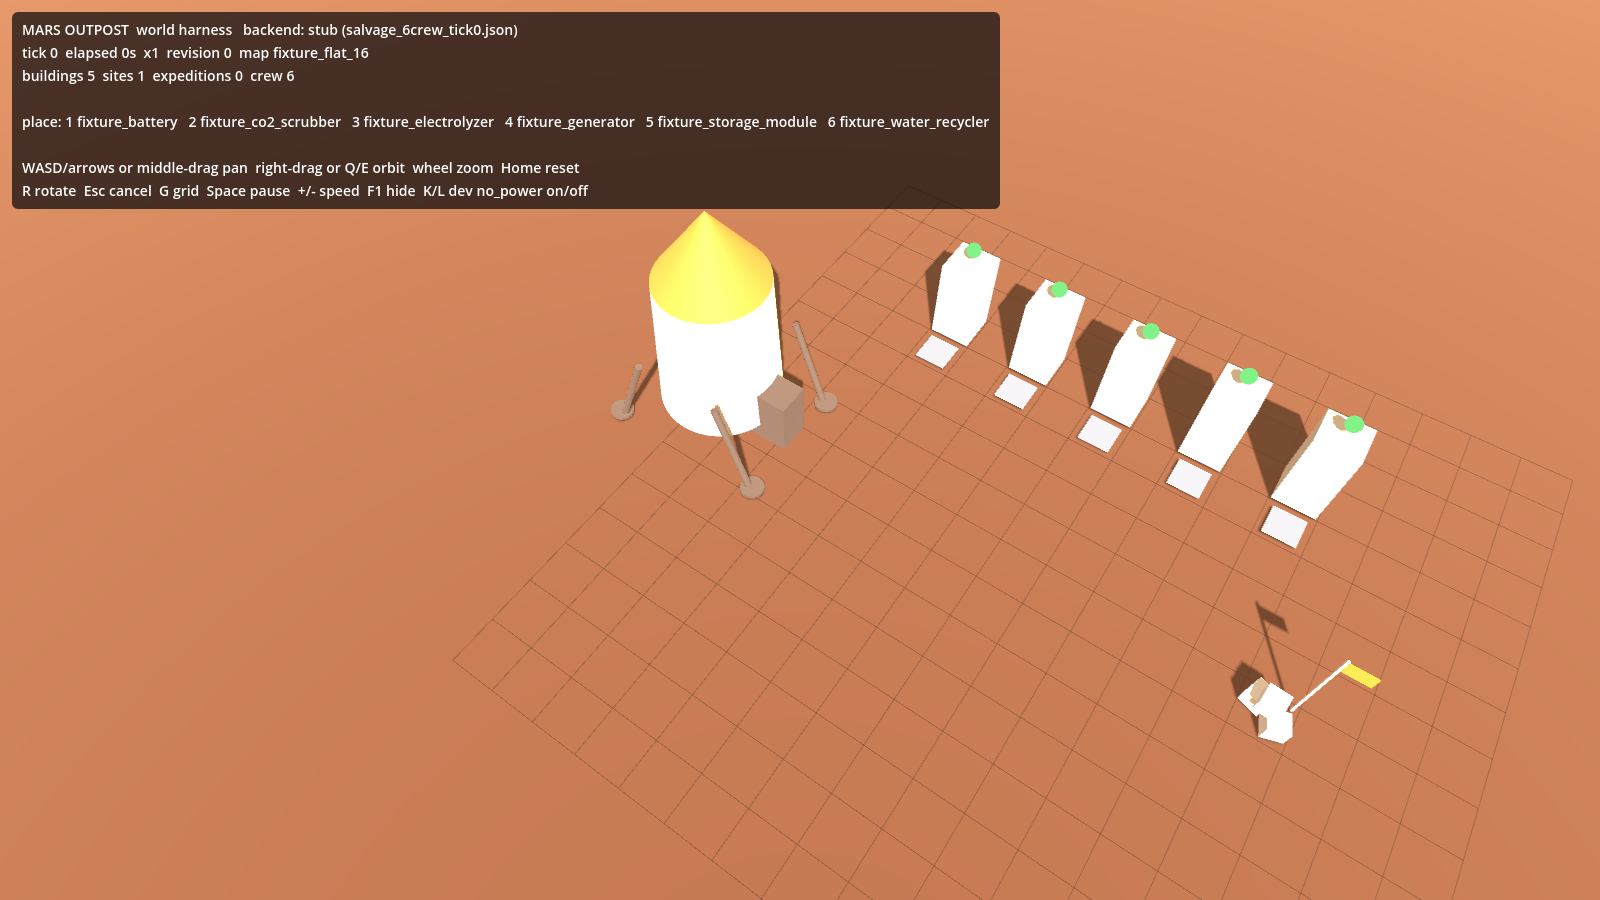
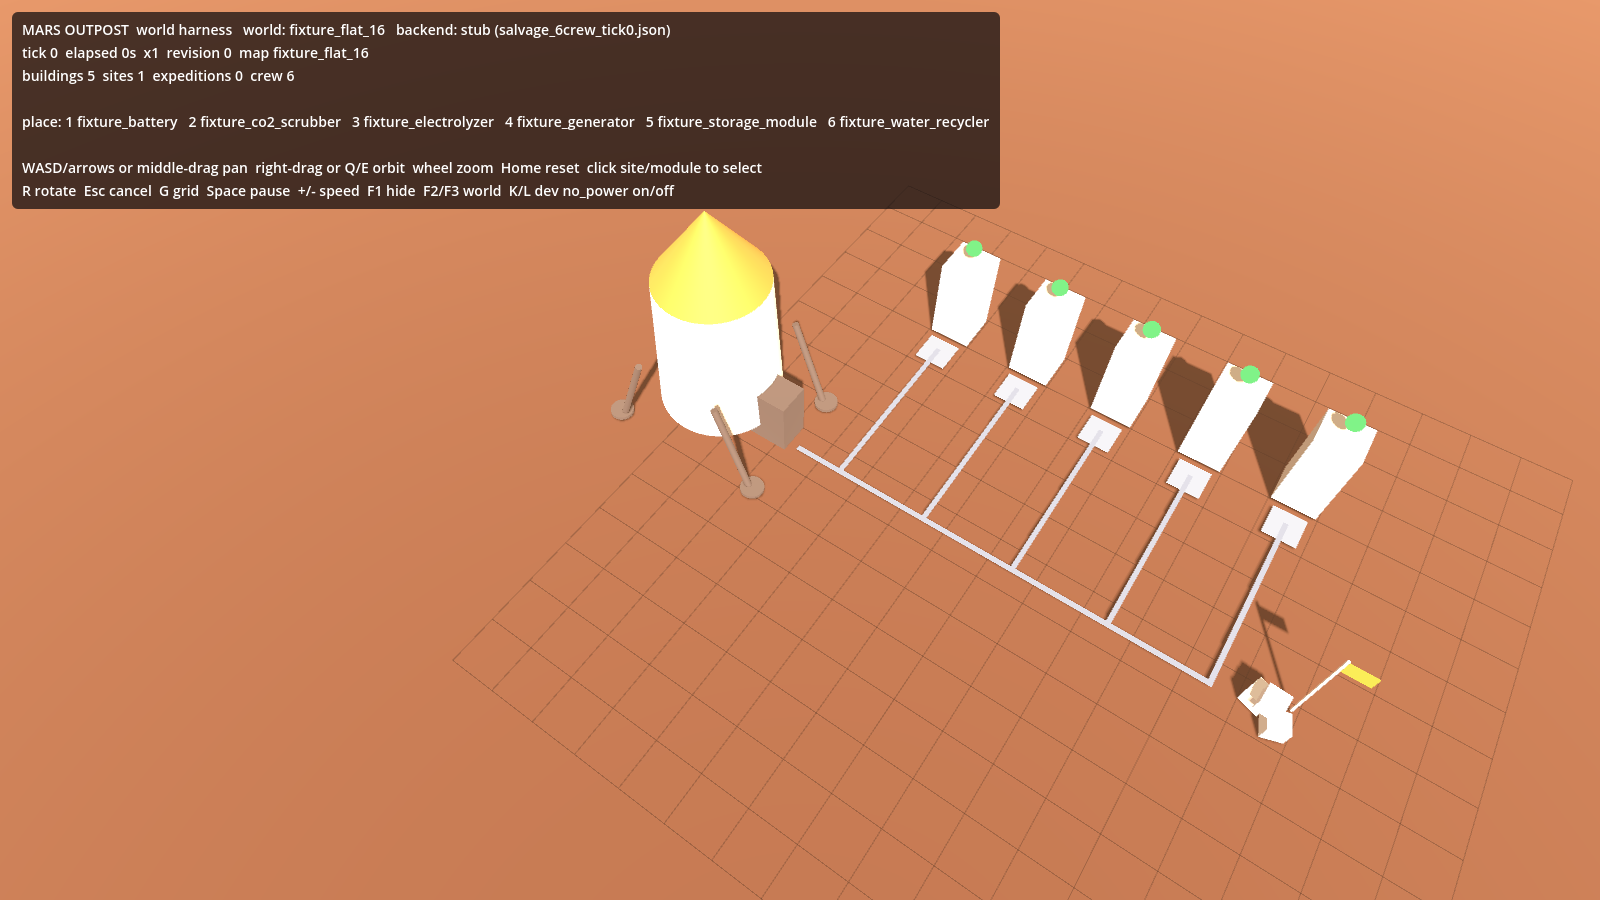
fixes for Github testing

diff --git a/tests/world/README.md b/tests/world/README.md
@@ -19,7 +19,9 @@ What `run_world.gd` covers:
 - **Harness injection.** `set_injected_blocked_cells` changes detours, unreachability and route ids, and clearing it restores the original id.
 - **Request validation.** Missing keys, unknown definitions, rotation out of range, fractional cells, snapshot/map mismatch and uninitialized services all return the contract shape with empty arrays and a machine code.
 - **Definitions and maps.** The section 7 schema validator, the registry copy semantics, and map validation (airlock in bounds and passable).
-- **Authored content.** `data/buildings/*.json` and `data/maps/landing_plain.json` load through the same validators, every authored building is placeable somewhere on the authored map, and every authored definition is labelled `balance_status: placeholder_pending_science_md`.
+- **Authored content.** `data/buildings/*.json` and `data/maps/landing_plain.json` load through the same validators, every authored building is placeable somewhere on the authored map, every definition is labelled `balance_status: placeholder_pending_science_md`, and each `scene_path` resolves to a scene rooted on `building_node.gd` with an `Art` child.
+- **Bridge flow (contract section 13).** Through `SimulationBridge` and the development stub: preview, a blocked `place_building` that fails at resolution without creating anything, a valid one that creates a constructing building and task, re-validation seeing the new footprint, duplicate command ids returning the cached result, explicit `module_unavailable` for EVA, commissioning after simulated work with a `building_commissioned` event, and a paused clock. Resource balances are byte-identical before and after.
+- **Landing plain demo.** The authored world loads through `load_world`; every demo site and module entrance is reachable from the airlock, the utility network has one line per module and no cut-off module, the landing apron refuses placement with the terrain reason, and a failed world switch keeps the previous world.
 
 ## Booting the world scene headless
 
@@ -29,16 +31,41 @@ Catches script errors in the scene graph without a window:
 & 'C:\Users\Pierre\Downloads\Godot_v4.7.2-stable_win64.exe\Godot_v4.7.2-stable_win64_console.exe' --headless --path . --quit-after 30
 ```
 
+## Screenshots
+
+```powershell
+& 'C:\Users\Pierre\Downloads\Godot_v4.7.2-stable_win64.exe\Godot_v4.7.2-stable_win64_console.exe' --path . --script tests/world/screenshot.gd
+```
+
+Opens a window briefly and writes eight captures to `docs/screenshots/` (fixture world: overview, valid and blocked previews, construction and status states, commissioned modules with a site route preview; authored world: overview, modules with the ice-site route, rotated greenhouse preview).
+
 ## Running the world harness
 
 Open the project in Godot 4.7.2 and press Play, or run the console executable with `--path .` and no other arguments. The main scene boots `scenes/world/main.tscn`:
 
-- `Integration` (`SimulationBridge`) loads the map and building definitions, builds the headless `WorldService`, and attaches a backend. When `scripts/simulation/simulation.gd` exists and initializes, it uses Task 01's `OutpostSimulation`; otherwise it uses the development `FixtureSimulationStub`, which renders `salvage_6crew_tick0` and handles only `place_building`, `set_building_enabled` and `set_time_scale`. The stub never changes resource balances.
-- Keys: `1`–`9` pick a building, `R`/`Shift+R` rotate, left click place, `Esc` cancel, `G` grid, `Space` pause, `+`/`-` time scale, `F1` hide overlay, `K`/`L` force `no_power` on/off for the hovered building (stub only). Camera: WASD/arrows or middle-drag pan, right-drag or Q/E orbit, wheel zoom, Home reset.
+- `Integration` (`SimulationBridge`) loads the map and building definitions, builds the headless `WorldService`, and attaches a backend. When `scripts/simulation/simulation.gd` exists and initializes, it uses Task 01's `OutpostSimulation`; otherwise it uses the development `FixtureSimulationStub`, which handles only `place_building`, `set_building_enabled` and `set_time_scale` and never changes resource balances.
+- Two world presets: `F2` the Task 01 fixture world (`fixture_flat_16`, `salvage_6crew_tick0`), `F3` the authored `landing_plain` world with the seven `data/buildings/` modules and three site kinds (cargo, survey, ice) from `tests/world/fixtures/landing_plain_demo_snapshot.json`.
+- Keys: `1`–`9` pick a building, `R`/`Shift+R` rotate, left click place, `Esc` cancel, `G` grid, `Space` pause, `+`/`-` time scale, `F1` hide overlay, `K`/`L` force `no_power` on/off for the hovered building (stub only). Click a site to pin its route preview (distance and route id, or the unreachable reason); click a module to select it. Camera: WASD/arrows or middle-drag pan, right-drag or Q/E orbit, wheel zoom, Home reset.
+- Signals for Task 03: `site_selected(site_id, route)`, `building_selected(building_id)`, `world_loaded(preset_name)`; call `begin_placement(definition_id)` from the HUD instead of the number keys.
+
+## Status language
+
+Module state uses colour **and** shape so it reads without colour vision: green sphere = operating, amber cube = warning (`partial_power`, `input_limited:*`, `output_full:*`, low condition), red triangle = failure (`no_power`, `damaged`, destroyed), grey disc = off (constructing or `disabled`). Utility lines from the airlock to each module follow the authoritative route and use the same palette for power served / partial / none, yellow while constructing, grey when idle.
+
+## Heightmap import (B5 pipeline)
+
+`tests/world/tools/heightmap_to_map.gd` converts a grayscale heightmap (for example a MOLA or Mars Trek DEM tile shipped under `assets/nasa/`) into a `WorldMapData` JSON:
+
+```powershell
+& '<godot console exe>' --headless --path . --script tests/world/tools/heightmap_to_map.gd -- --heightmap res://assets/nasa/<tile>.png --out res://data/maps/<id>.json --id <id> --size 48 --min-m 0 --max-m 12 --airlock 10,24 --source "<provenance>"
+```
+
+No NASA tile is in the repository yet; `ATTRIBUTION.md` must receive the asset record before the output map is committed.
 
 ## Boundaries
 
 - Placement previews are advisory. Only Task 01 spends materials; the scene only submits `place_building` commands through the bridge.
 - Crew figures and the HUD belong to Task 03 and mount under `Main/CrewRoot` and `Main/UIRoot`.
-- The authored `landing_plain` terrain is a procedural blockout, not NASA elevation data. Nothing under `assets/nasa/` has been imported yet; `ATTRIBUTION.md` records that state.
+- `landing_plain` terrain is a procedural blockout, not NASA elevation data. Nothing under `assets/nasa/` has been imported yet.
 - Balance numbers in `data/buildings/` are placeholders awaiting `SCIENCE.md` entries; footprint and entrance geometry are authoritative.
+- Utility lines visualize the single shared network of contract section 7; they do not imply separate grids or pipe routing.

diff --git a/TASK_02_WORLD.md b/TASK_02_WORLD.md
@@ -2,7 +2,7 @@
 
 **Required interface baseline:** [SHARED_SIMULATION_SPEC.md](SHARED_SIMULATION_SPEC.md). Implement its building-definition schema and headless placement/route queries; render its snapshots without changing resource balances. Earlier interface sketches defer to this spec.
 
-**B1–B2 implementation:** the headless `WorldService` (`scripts/world/`), map/definition loaders, the world harness scene (`scenes/world/main.tscn`) with camera, terrain blockout, placement preview, lifecycle/status visuals, sites and routes, authored definitions under `data/buildings/`, export presets and CI are in place. See [world verification](tests/world/README.md) for the test command, controls and the exact boundary of what is implemented.
+**Implementation status:** the headless `WorldService` (`scripts/world/`), map/definition loaders, the world harness scene (`scenes/world/main.tscn`) with camera, terrain blockout, placement preview, lifecycle/status visuals, utility network lines, site kinds with route previews, authored module scenes (`scenes/buildings/`) and definitions (`data/buildings/`), the authored `landing_plain` world, a heightmap import tool for NASA terrain, export presets and CI are in place. Not yet done: importing an actual NASA terrain tile with its attribution record, Task 01/03 integration once their branches land, and verified exports (templates are only available in CI). See [world verification](tests/world/README.md) for the test command, controls and boundaries.
 
 ## 1. Executive summary
 

diff --git a/ATTRIBUTION.md b/ATTRIBUTION.md
@@ -8,11 +8,13 @@ Record each asset's provenance before adding it to the repository. Scientific pa
 - `data/maps/landing_plain.json` is a **procedural blockout terrain** authored for this project. Its heights, ridge and crater are game abstractions. It is **not** derived from NASA Mars Trek, MOLA or any other NASA dataset, and no such derivation may be claimed until an entry below records it.
 - No NASA logos, flags, mission identifiers or insignia are used anywhere in the project.
 
+- Authored module scenes under `scenes/buildings/` and the markers in `scripts/world/site_view.gd` are built from Godot primitive meshes only.
+
 ## Planned NASA-derived references (not yet imported)
 
 When these are added, download them during development, ship them locally under `assets/nasa/`, and complete a record below for each file. The game must never fetch NASA data at runtime.
 
-- Mars Trek WMTS tiles / MOLA topography for a terrain reference and heightmap.
+- Mars Trek WMTS tiles / MOLA topography for a terrain reference and heightmap. Pipeline ready: `tests/world/tools/heightmap_to_map.gd` turns a downloaded grayscale tile into a map JSON; the asset record below must be filled in first.
 - SWIM subsurface ice maps for the landing-site selection screen.
 - NASA Image and Video Library stills for loading screens and debrief cards (credit each image, e.g. "NASA/JPL-Caltech").
 - Perseverance surface audio for ambience.
